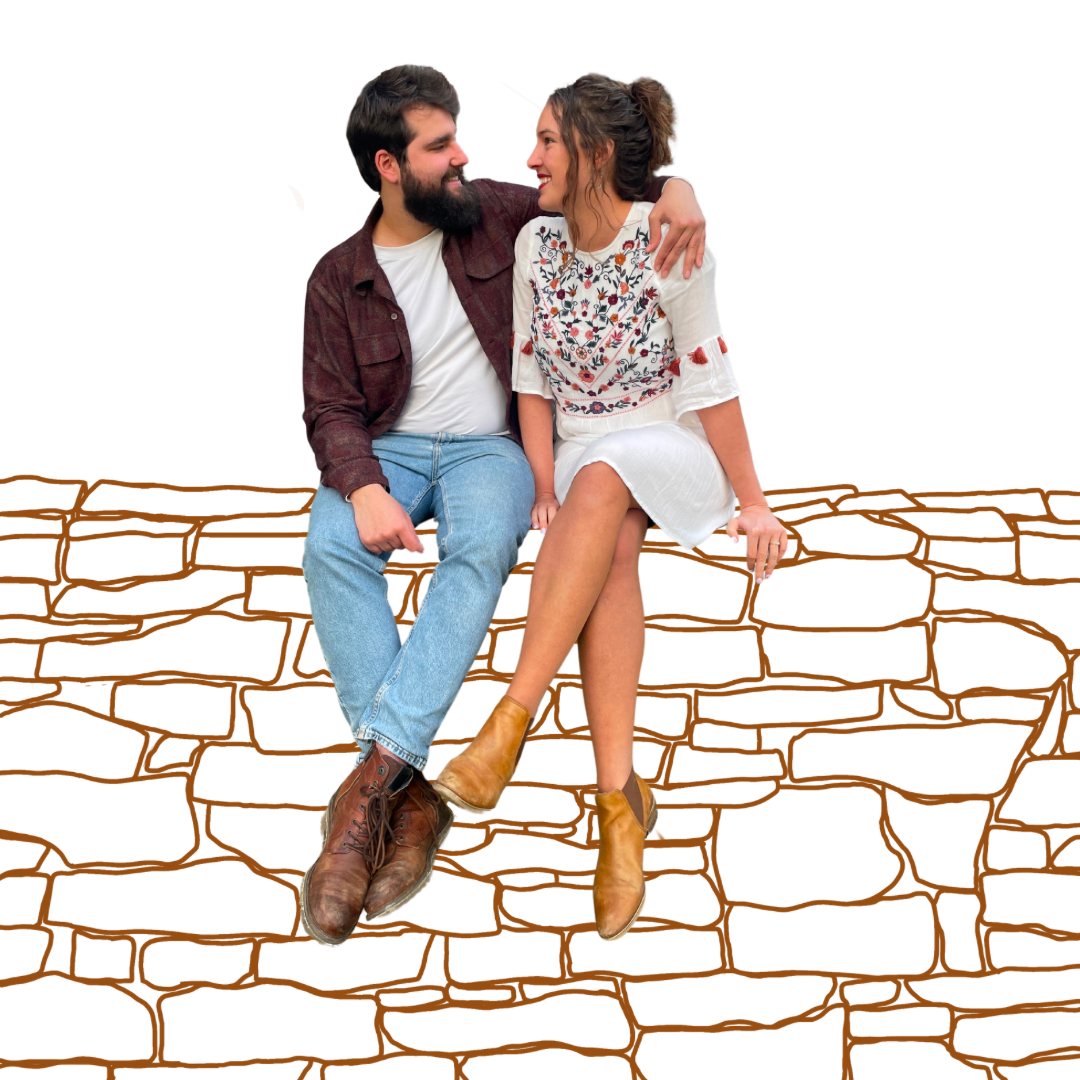
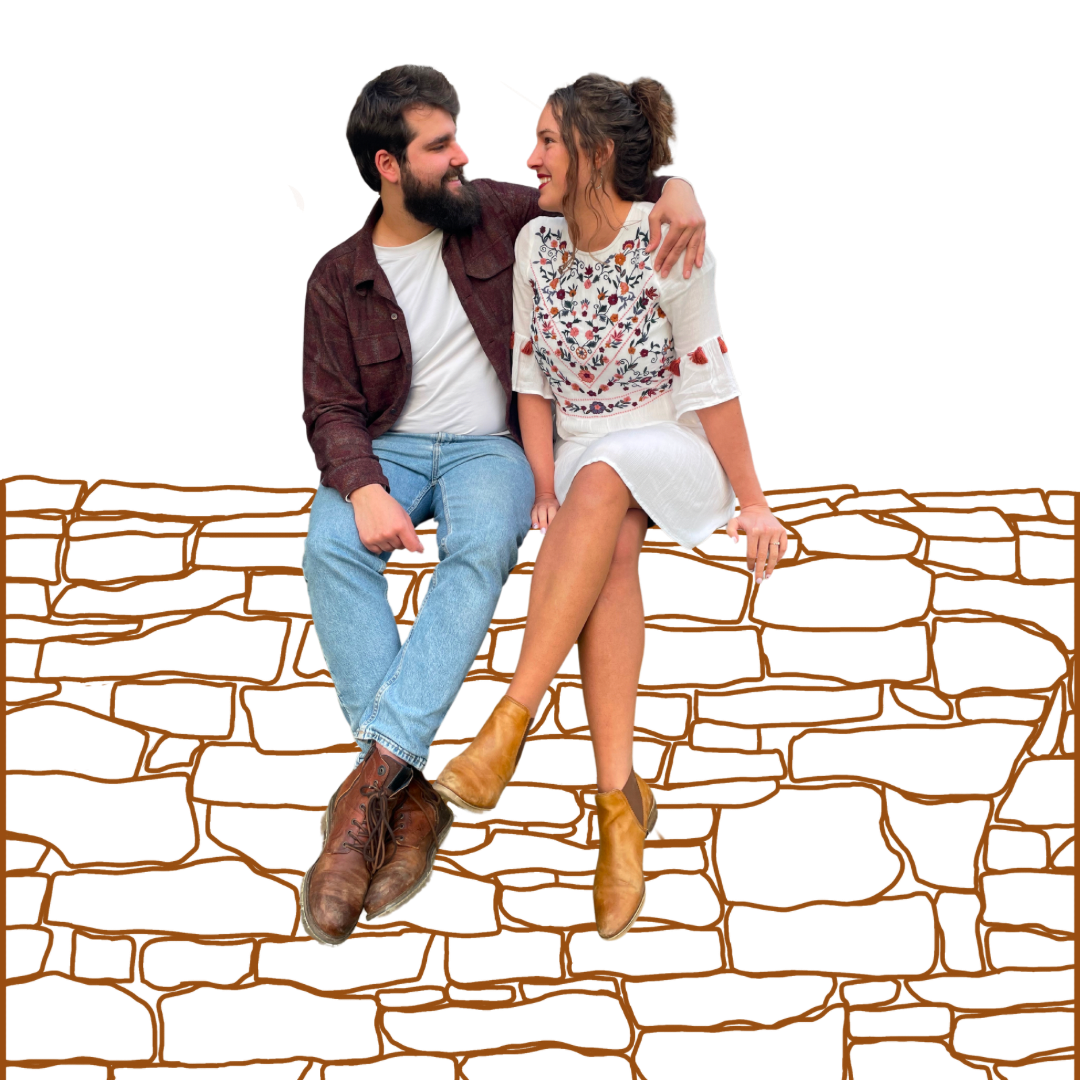
v1.3

Changed region(s): [[0.9778, 0.4583, 1.0, 1.0], [0.0, 0.4583, 0.0306, 1.0]]

diff --git a/src/pages/Timeline.vue b/src/pages/Timeline.vue
@@ -19,7 +19,7 @@
             </div>
         </div>
         <div v-if="!scrolledToNameInput" class="arrow-down-container">
-          <div class="arrow" @click="scrollToNameInput()">
+          <div class="arrow" :class="currentScrollId === 0 ? 'white' : ''" @click="scrollToNameInput()">
             <font-awesome-icon icon="fa-solid fa-arrow-down" class="icon" />
           </div>
         </div>
@@ -30,15 +30,17 @@
           <font-awesome-icon icon="fa-solid fa-arrow-up" class="icon" />
         </div>
       </div>
+      <div class="stupid-image-container">
+            <img class="stupid-image" src="../assets/img.png">
+        </div>
       <div class="welcome" id="welcome">
-
         <h2>Welkom {{ guest.name.split(" ")[0] }},</h2>
         <p style="margin-top: 0.5rem;">We ontvangen jou <span v-if="partner">en {{ partner.name.split(" ")[0] !== 'Partner' ? partner.name.split(" ")[0] : 'jouw partner' }}</span> graag om samen ons huwelijk te vieren</p>
         <p style="margin-top: 2rem;">Gebruik de pijltjes boven - en onder de pagina om een kijkje te nemen op onze site.</p>
         <p>Je vind hier meer details over het programma en praktische informatie.</p>
-        <p>  <span style="font-weight: bold;">Aan het einde vind je een formulier om jou <span v-if="partner">en jouw partner's</span> aanwezigheid te bevestigen</span></p>
+        <p>  <span style="font-weight: bold;">Aan het einde vind je een formulier om jou <span v-if="partner">en je partners</span> aanwezigheid te bevestigen</span></p>
         <div class="index">
-          <p>Ga snel naar</p>
+          <h2>Ga snel naar</h2>
           <p class="index-item" @click="scrollTo(1)">> Het programma</p>
           <p class="index-item" @click="scrollTo(6)" v-if="guest.formType !== 'receptie'">> De praktische informatie</p>
           <p class="index-item" @click="scrollTo(7)">> Je aanwezigheid bevestigen</p>
@@ -54,7 +56,7 @@
         </div>
       </div>
       <div v-if="currentScrollId !== scrollIds.length - (partner ? 1 : 2)" class="arrow-down-container">
-          <div class="arrow" @click="scrollDown()">
+          <div class="arrow" :class="{'white': currentScrollId === 0}" @click="scrollDown()">
             <font-awesome-icon icon="fa-solid fa-arrow-down" class="icon" />
           </div>
         </div>
@@ -2283,6 +2285,7 @@ export default {
   justify-content: center;
   position: relative;
   overflow-y: hidden;
+  position: relative;
   overflow-x: hidden
 }
 
@@ -2342,11 +2345,6 @@ export default {
   overflow-x: hidden
 }
 
-.image-container {
-  background-image: url('../assets/image.png');
-  position: absolute;
-}
-
 .name-input-form {
   display: flex;
   flex-direction: column;
@@ -2357,12 +2355,13 @@ export default {
 
 .welcome {
   padding: 2rem;
+  padding-top: 6rem;
   height: 100%;
+  position: relative;
+  z-index: 5;
   display: flex;
   flex-direction: column;
-  justify-content: center;
-  background-color: #ebebeb;
-  color: #39393A !important;
+  justify-content: start;
 }
 
 .button {
@@ -2422,14 +2421,38 @@ export default {
 }
 
 .stupid-image-container {
-    width: 100%;
-    height: 30%;
+    position: absolute;
+    height: 50vh;
+    left: 50%;
+    bottom: -3rem;
+    z-index: 0;
+    transform: translate(-50%, 0);
     display: flex;
     justify-content: center;
 }
 
+.border-image-right {
+    position: absolute;
+    height: 8.5rem;
+    width: 1px;
+    left: 37.5%;
+    bottom: 0;
+    transform: translate(-50%, 0);
+    background-color: #995116;
+}
+
+.border-image-left {
+    position: absolute;
+    height: 8.3rem;
+    left: 62.5%;
+    width: 1px;
+    bottom: 0;
+    transform: translate(-50%, 0);
+    background-color: #995116;
+}
+
 .stupid-image {
-    height: 100%;
+    width: 100%;
     object-fit: contain;
 
 }
@@ -2448,6 +2471,11 @@ export default {
   justify-content: center;
   bottom: 0;
   animation: MoveUpDown 2s linear infinite;
+}
+
+.white {
+    background-color: white;
+
 }
 
 .arrow-up-container {
@@ -2478,6 +2506,13 @@ export default {
   .container {
     justify-content: start;
   }
+
+  .stupid-image-container {
+    width: 100vw;
+    height: auto;
+    opacity: 50%;
+    left: 50%;
+    }
 }
 
 @keyframes MoveUpDown {

diff --git a/src/components/timeline/Receptie.vue b/src/components/timeline/Receptie.vue
@@ -14,7 +14,7 @@
       <p class="subtitle">OPGELET: Er is geen parkeerplaats aan de abdij.</p>
       <p class="subtitle">Kom je met de auto, parkeer je dan in Parking Vaartkom:</p>
       <a href="https://maps.app.goo.gl/ZvgSh3XtkKBf2L8K6">Engels Plein 32, 3000 Leuven</a>
-      <a style="margin-top: 1rem;" href="https://www.google.be/maps/dir/Abdij+Keizersberg,+Mechelsestraat+202,+3000+Leuven/Parking+Vaartkom,+Engels+Plein+32,+3000+Leuven/@50.8884017,4.6930385,16z/data=!3m1!4b1!4m14!4m13!1m5!1m1!1s0x47c160c31763da33:0x13b27b33cd030033!2m2!1d4.6962415!2d50.8885663!1m5!1m1!1s0x47c160c56d643ce5:0xcd1ef370c7466c36!2m2!1d4.7006869!2d50.8887726!3e2?entry=ttu">Klik hier voor de  wandelroute van de parking naar de abdij.</a>
+      <a style="margin-top: 1rem; text-decoration: underline;" href="https://www.google.be/maps/dir/Abdij+Keizersberg,+Mechelsestraat+202,+3000+Leuven/Parking+Vaartkom,+Engels+Plein+32,+3000+Leuven/@50.8884017,4.6930385,16z/data=!3m1!4b1!4m14!4m13!1m5!1m1!1s0x47c160c31763da33:0x13b27b33cd030033!2m2!1d4.6962415!2d50.8885663!1m5!1m1!1s0x47c160c56d643ce5:0xcd1ef370c7466c36!2m2!1d4.7006869!2d50.8887726!3e2?entry=ttu">Klik hier voor de  wandelroute van de parking naar de abdij.</a>
     </div>
   </div>
 </template>
